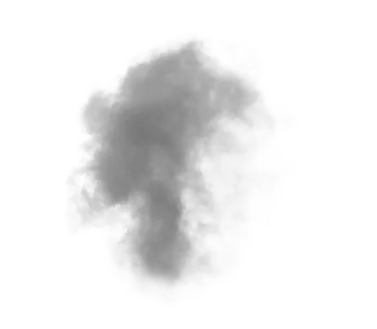
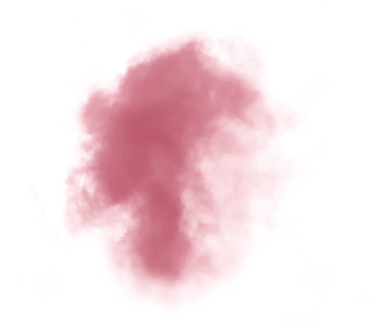
feat: smoke's color added

Changed region(s): [[0.1751, 0.0912, 0.7294, 0.8815]]

diff --git a/main.js b/main.js
@@ -15,7 +15,7 @@ const $bkg = document.getElementById('smoke-bkg');
 
     const renderer = new THREE.WebGLRenderer()
     renderer.setSize(w, h)
-    renderer.setClearColor(0xdddddd, 1)
+    renderer.setClearColor(0xff0030, 0.6)
 
     $bkg?.appendChild(renderer.domElement)
 
@@ -65,7 +65,7 @@ const $bkg = document.getElementById('smoke-bkg');
         requestAnimationFrame(animate)
         
         smokeParticles.forEach(particle => {
-            particle.rotation.z += 0.002
+            particle.rotation.z += 0.003
         })
 
         renderer.render(scene, camera)
